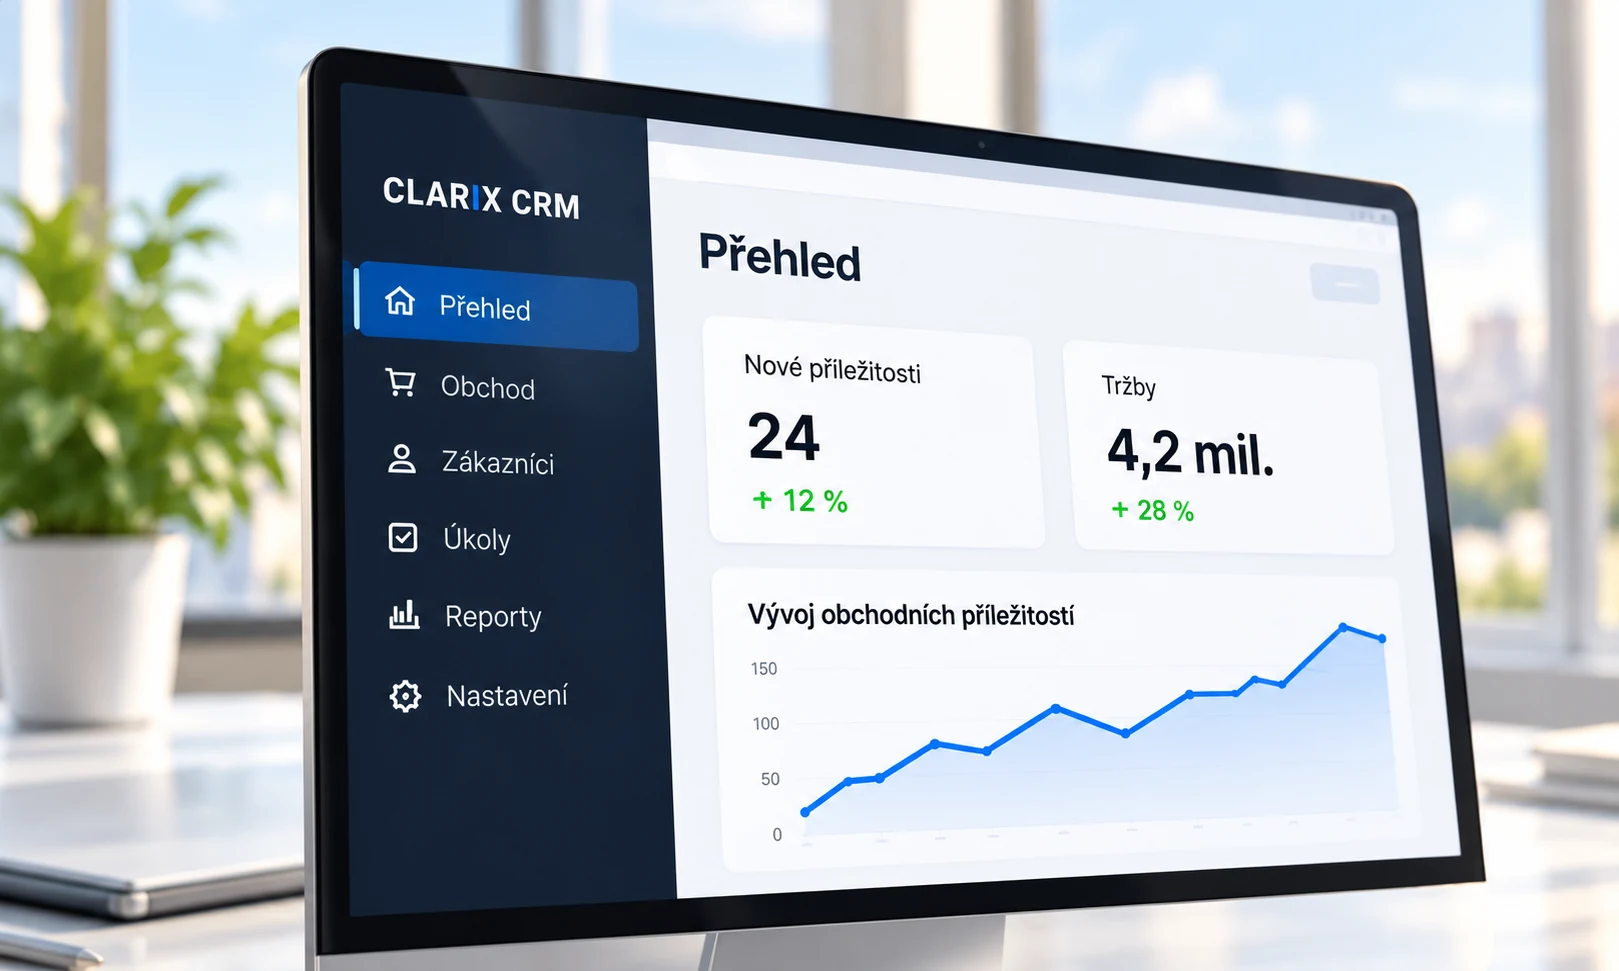
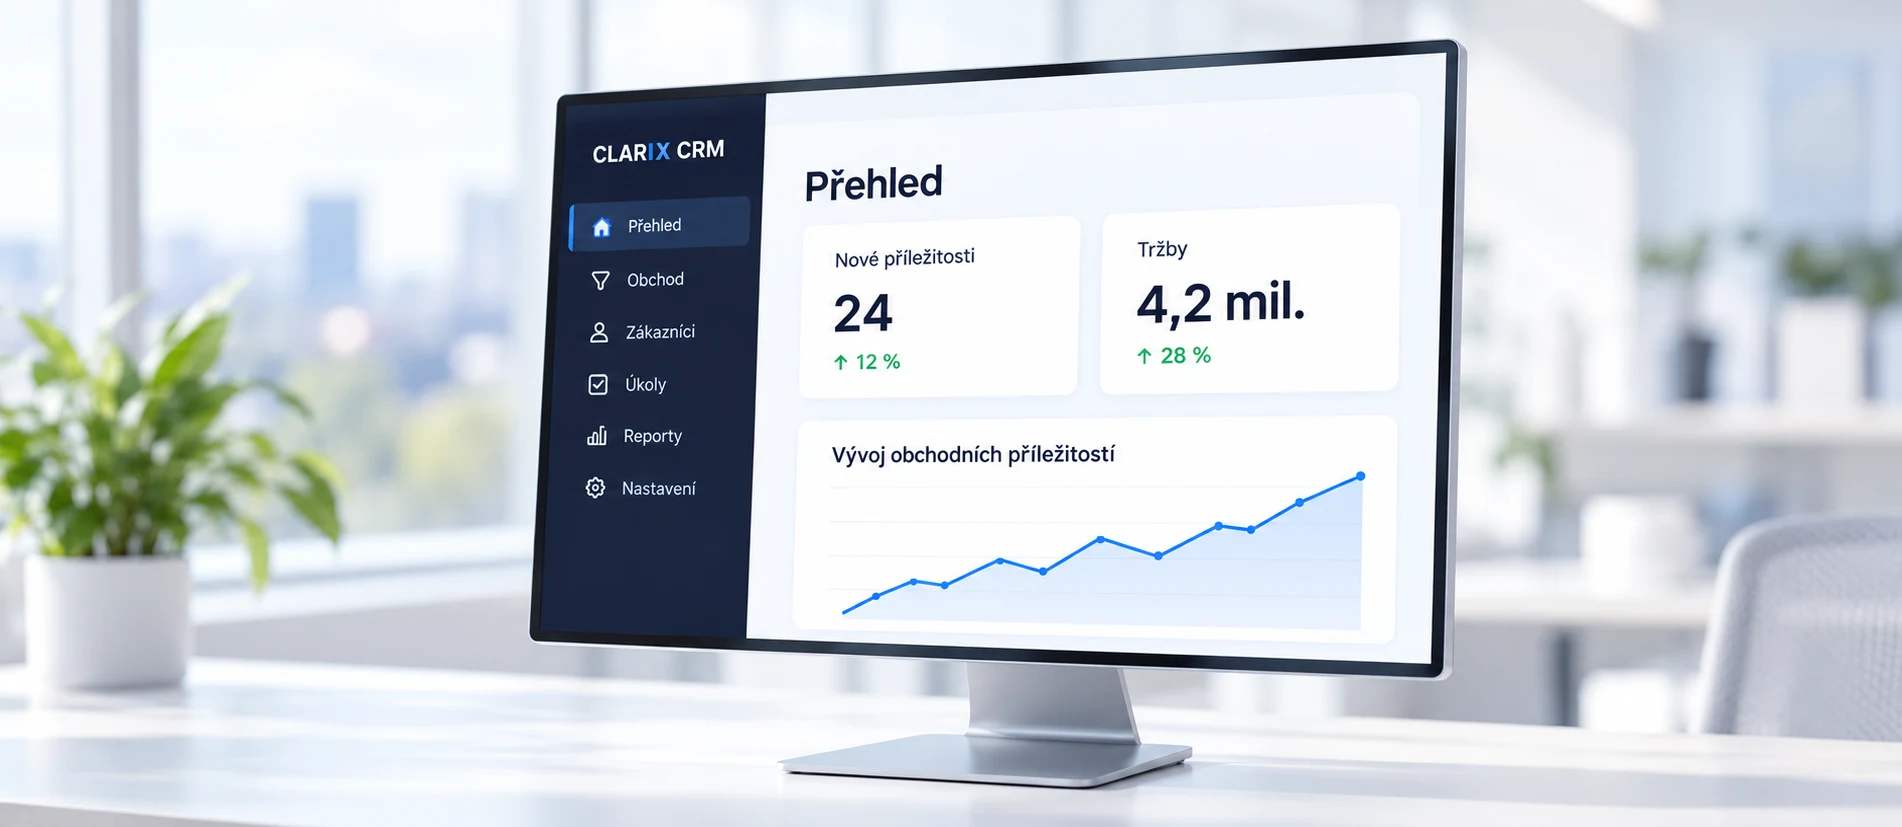
Nové fotky na Službách — zařízení jsou celá
crm, weby, aplikace i strategie vyměněny za znovu vygenerované verze
1902×827, kde nic nepřesahuje přes okraj. Doplněny správné rozměry
v HTML. Staré fotky zálohovány.

diff --git a/sluzby.html b/sluzby.html
@@ -928,7 +928,7 @@ body.portfolio-mode #hero3d { opacity:.58; }
         <ul class="ks-body"><li><svg viewBox="0 0 24 24" fill="none" stroke="currentColor" stroke-width="3" stroke-linecap="round" stroke-linejoin="round"><polyline points="20 6 9 17 4 12"/></svg><span>Analýza a návrh řešení</span></li><li><svg viewBox="0 0 24 24" fill="none" stroke="currentColor" stroke-width="3" stroke-linecap="round" stroke-linejoin="round"><polyline points="20 6 9 17 4 12"/></svg><span>Implementace a integrace</span></li><li><svg viewBox="0 0 24 24" fill="none" stroke="currentColor" stroke-width="3" stroke-linecap="round" stroke-linejoin="round"><polyline points="20 6 9 17 4 12"/></svg><span>Školení a dlouhodobá podpora</span></li></ul>
         <a href="o-nas.html#kontakt" class="ks-vic">Více o CRM <i data-lucide="arrow-right" class="h-4 w-4"></i></a>
       </div>
-      <div class="ks-obr"><img src="images/sluzby/crm.webp" alt="CLARIX CRM – přehled obchodních příležitostí" loading="lazy" width="1200" height="800"></div>
+      <div class="ks-obr"><img src="images/sluzby/crm.webp" alt="CLARIX CRM – přehled obchodních příležitostí" loading="lazy" width="1902" height="827"></div>
     </article>
     <article class="ks-karta reveal">
       <div>
@@ -937,7 +937,7 @@ body.portfolio-mode #hero3d { opacity:.58; }
         <ul class="ks-body"><li><svg viewBox="0 0 24 24" fill="none" stroke="currentColor" stroke-width="3" stroke-linecap="round" stroke-linejoin="round"><polyline points="20 6 9 17 4 12"/></svg><span>Moderní design a UX</span></li><li><svg viewBox="0 0 24 24" fill="none" stroke="currentColor" stroke-width="3" stroke-linecap="round" stroke-linejoin="round"><polyline points="20 6 9 17 4 12"/></svg><span>Technické SEO</span></li><li><svg viewBox="0 0 24 24" fill="none" stroke="currentColor" stroke-width="3" stroke-linecap="round" stroke-linejoin="round"><polyline points="20 6 9 17 4 12"/></svg><span>Příprava na AI vyhledávání</span></li></ul>
         <a href="weby-nove-generace.html" class="ks-vic">Více o webech <i data-lucide="arrow-right" class="h-4 w-4"></i></a>
       </div>
-      <div class="ks-obr"><img src="images/sluzby/weby.webp" alt="Web nové generace na tabletu" loading="lazy" width="1200" height="800"></div>
+      <div class="ks-obr"><img src="images/sluzby/weby.webp" alt="Web nové generace na tabletu" loading="lazy" width="1902" height="827"></div>
     </article>
     <article class="ks-karta reveal">
       <div>
@@ -946,7 +946,7 @@ body.portfolio-mode #hero3d { opacity:.58; }
         <ul class="ks-body"><li><svg viewBox="0 0 24 24" fill="none" stroke="currentColor" stroke-width="3" stroke-linecap="round" stroke-linejoin="round"><polyline points="20 6 9 17 4 12"/></svg><span>Návrh a vývoj aplikací</span></li><li><svg viewBox="0 0 24 24" fill="none" stroke="currentColor" stroke-width="3" stroke-linecap="round" stroke-linejoin="round"><polyline points="20 6 9 17 4 12"/></svg><span>Integrace s existujícími systémy</span></li><li><svg viewBox="0 0 24 24" fill="none" stroke="currentColor" stroke-width="3" stroke-linecap="round" stroke-linejoin="round"><polyline points="20 6 9 17 4 12"/></svg><span>Škálovatelná architektura</span></li></ul>
         <a href="o-nas.html#kontakt" class="ks-vic">Více o aplikacích <i data-lucide="arrow-right" class="h-4 w-4"></i></a>
       </div>
-      <div class="ks-obr"><img src="images/sluzby/aplikace.webp" alt="Mobilní aplikace – přehled" loading="lazy" width="1200" height="800"></div>
+      <div class="ks-obr"><img src="images/sluzby/aplikace.webp" alt="Mobilní aplikace – přehled" loading="lazy" width="1902" height="827"></div>
     </article>
     <article class="ks-karta reveal">
       <div>
@@ -955,7 +955,7 @@ body.portfolio-mode #hero3d { opacity:.58; }
         <ul class="ks-body"><li><svg viewBox="0 0 24 24" fill="none" stroke="currentColor" stroke-width="3" stroke-linecap="round" stroke-linejoin="round"><polyline points="20 6 9 17 4 12"/></svg><span>Digitální strategie</span></li><li><svg viewBox="0 0 24 24" fill="none" stroke="currentColor" stroke-width="3" stroke-linecap="round" stroke-linejoin="round"><polyline points="20 6 9 17 4 12"/></svg><span>UX/UI design</span></li><li><svg viewBox="0 0 24 24" fill="none" stroke="currentColor" stroke-width="3" stroke-linecap="round" stroke-linejoin="round"><polyline points="20 6 9 17 4 12"/></svg><span>Konzultace a workshopy</span></li></ul>
         <a href="o-nas.html#kontakt" class="ks-vic">Více o strategii a designu <i data-lucide="arrow-right" class="h-4 w-4"></i></a>
       </div>
-      <div class="ks-obr"><img src="images/sluzby/strategie.webp" alt="Skica strategie na papíře" loading="lazy" width="1200" height="800"></div>
+      <div class="ks-obr"><img src="images/sluzby/strategie.webp" alt="Skica strategie na papíře" loading="lazy" width="1902" height="827"></div>
     </article>
   </div></section>
   <div class="relative z-10 border-t border-[var(--border)] bg-[var(--page-overlay)] backdrop-blur-[2px]">
